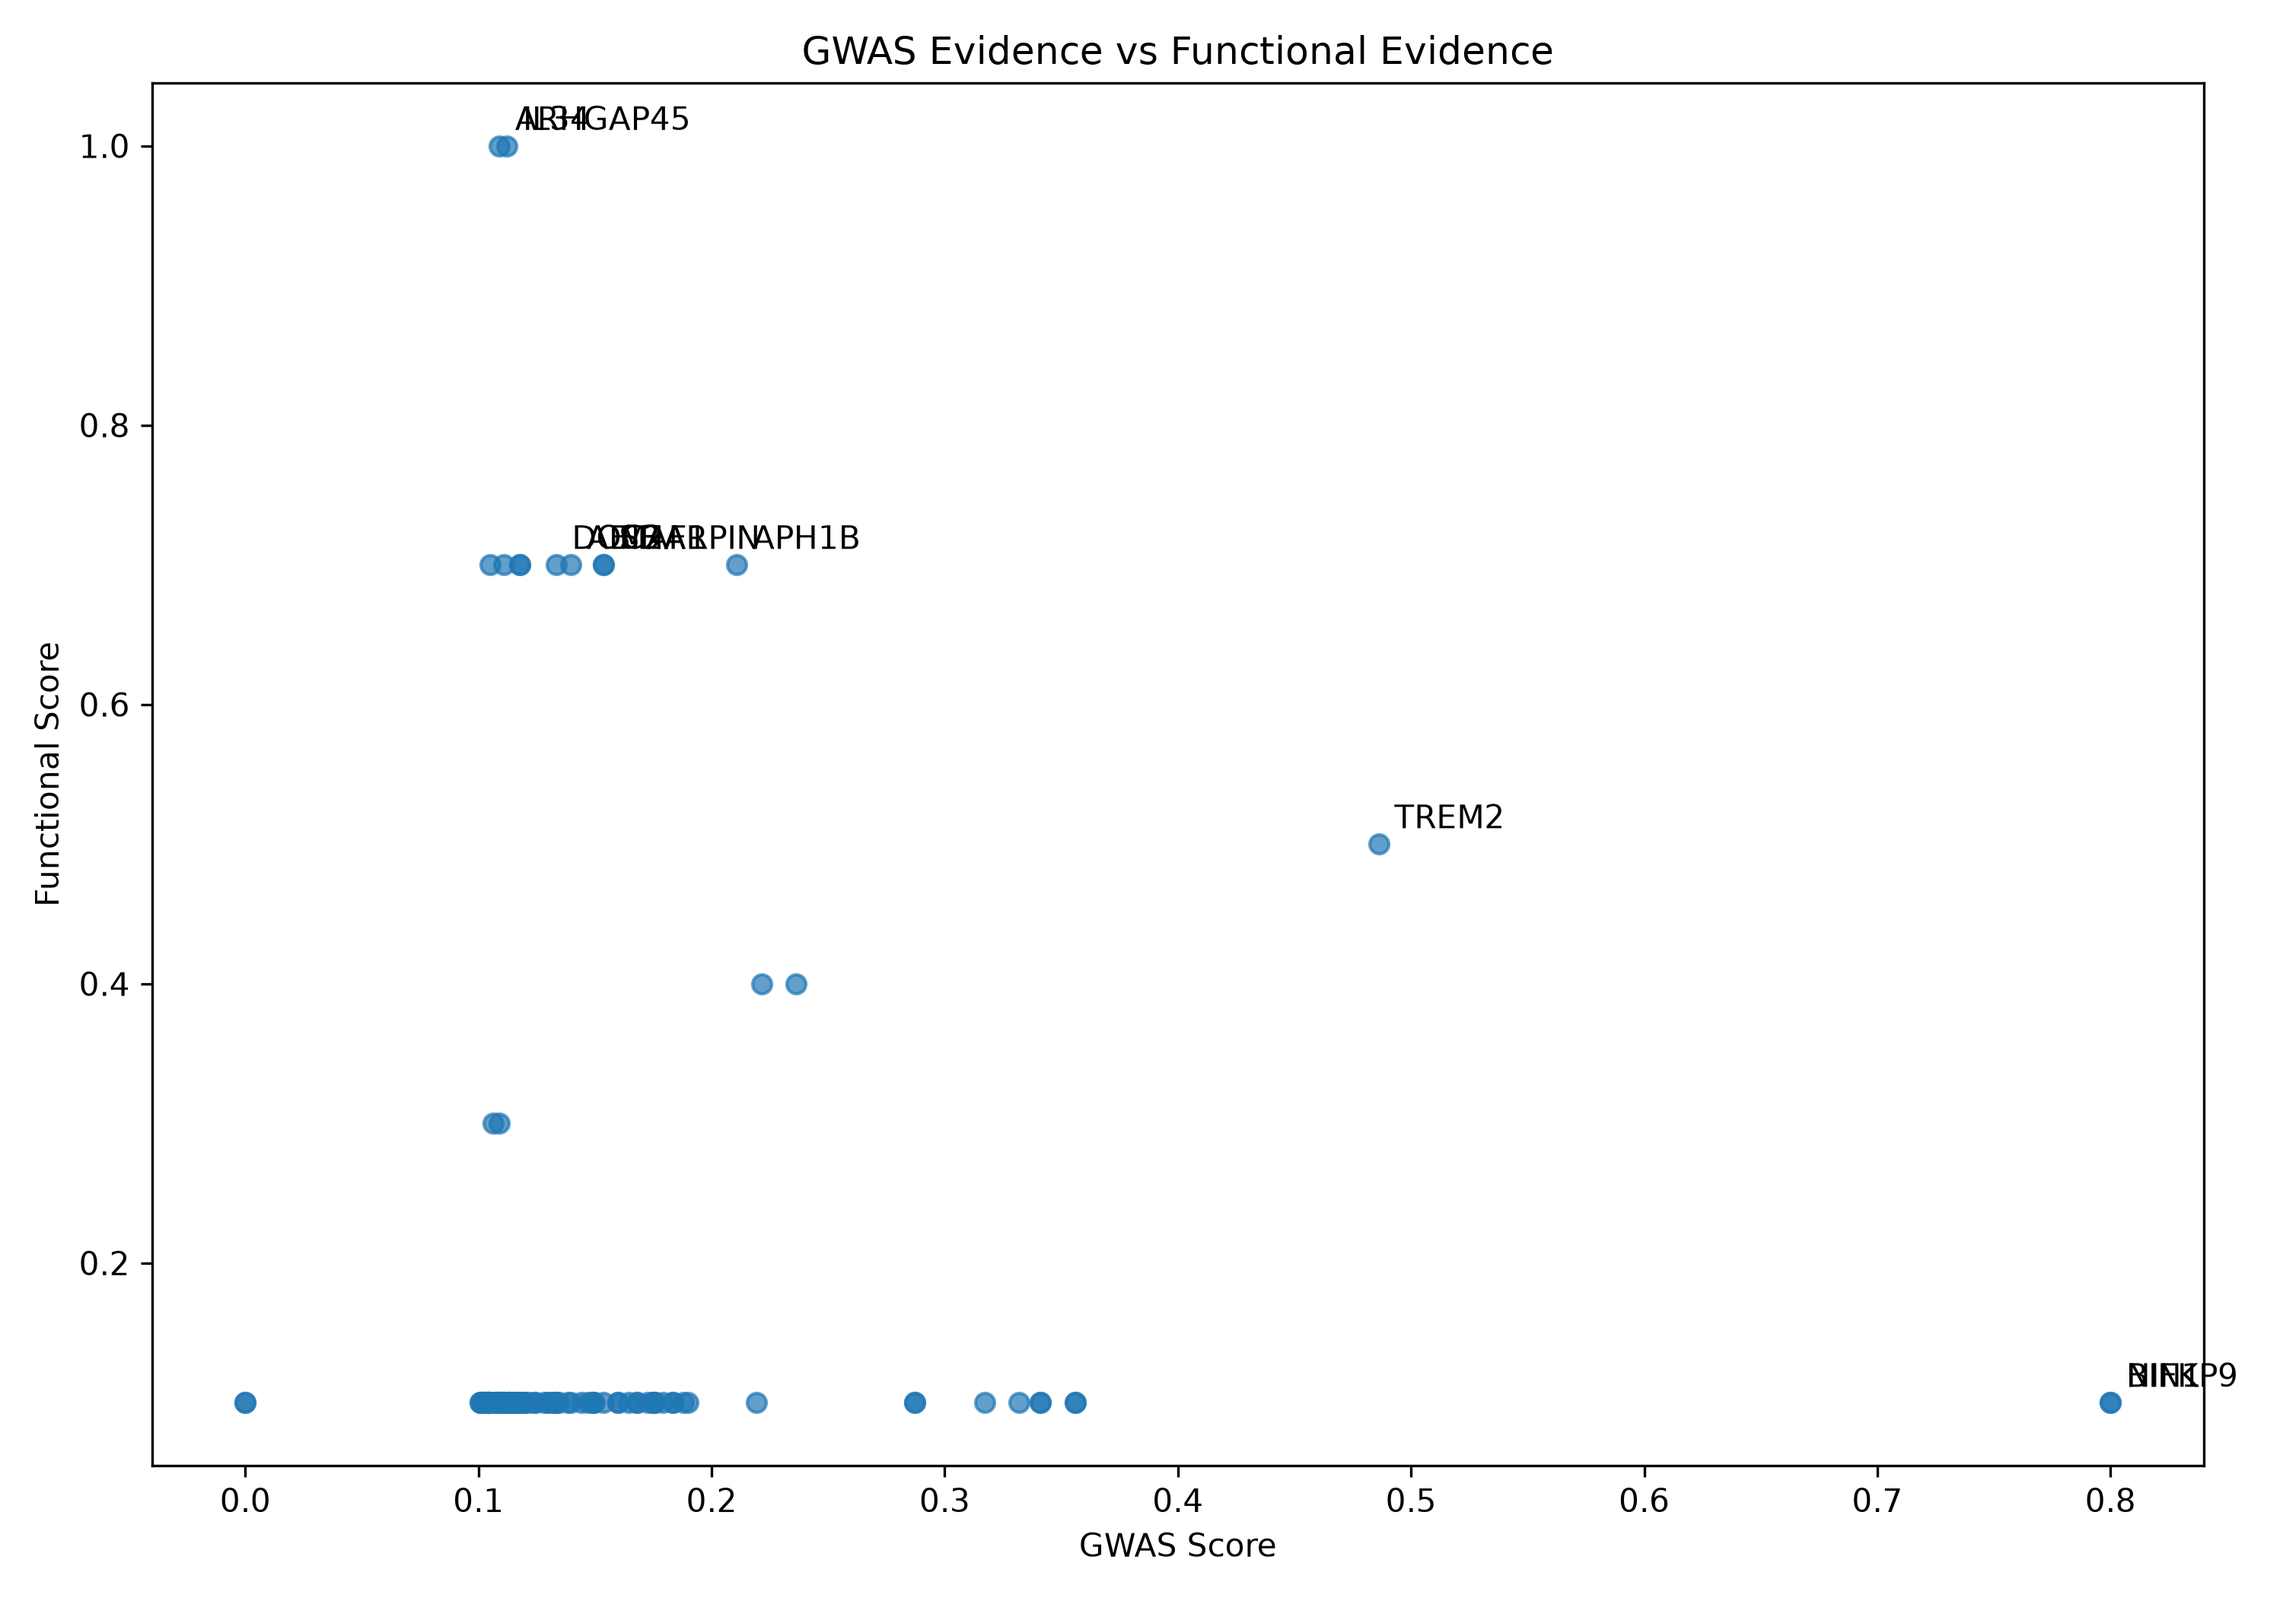
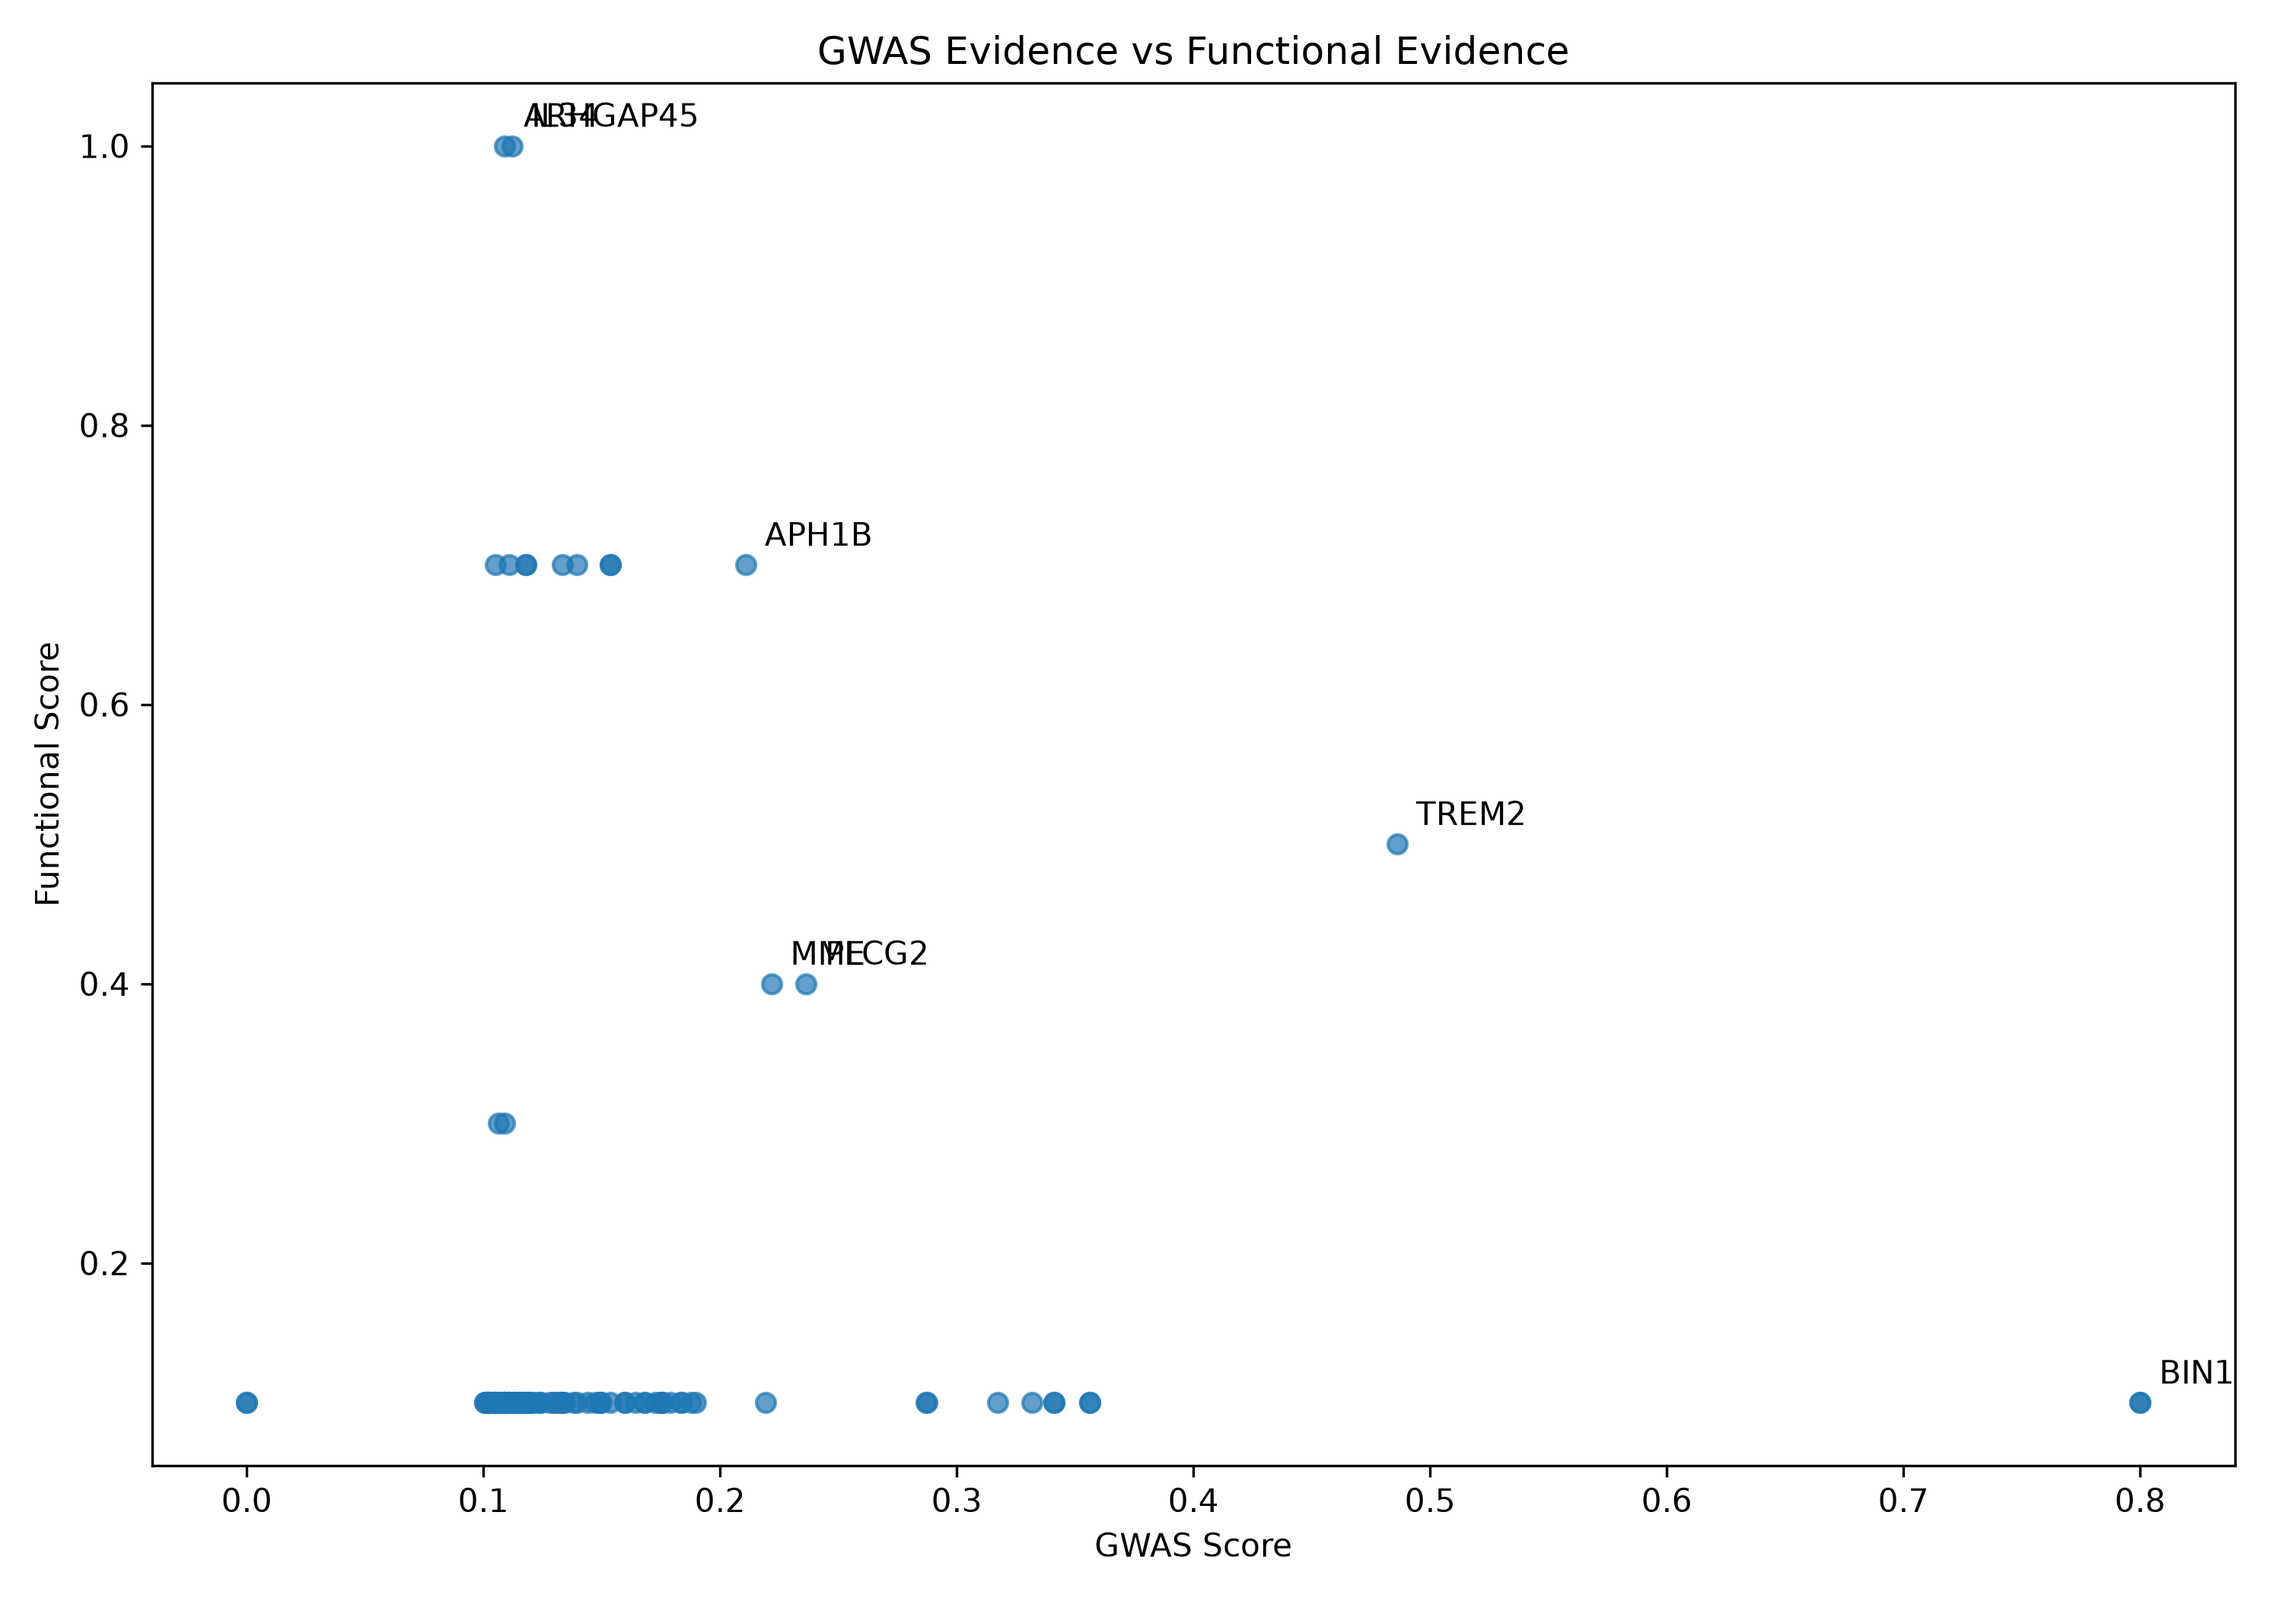
cleaner visualisation of gwas vs functional evidence scatter plot

diff --git a/src/geneprior_scoring.py b/src/geneprior_scoring.py
@@ -129,12 +129,28 @@ print("\nCalculating GenePrior v1 score...")
 GWAS_WEIGHT = 0.70
 FUNCTIONAL_WEIGHT = 0.30
 
-evidence["geneprior_score"] = (
+# --------------------------------------------------
+# Calculate evidence contributions
+# --------------------------------------------------
+
+evidence["gwas_contribution"] = (
     GWAS_WEIGHT * evidence["gwas_score"]
-    + FUNCTIONAL_WEIGHT * evidence["functional_score"]
 )
 
-# Convert score to 0–100 scale
+evidence["functional_contribution"] = (
+    FUNCTIONAL_WEIGHT * evidence["functional_score"]
+)
+
+
+# --------------------------------------------------
+# Calculate final GenePrior score
+# --------------------------------------------------
+
+evidence["geneprior_score"] = (
+    evidence["gwas_contribution"]
+    + evidence["functional_contribution"]
+)
+
 evidence["geneprior_score_100"] = (
     evidence["geneprior_score"] * 100
 )
@@ -165,18 +181,24 @@ column_order = [
     "geneprior_rank",
     "geneprior_score",
     "geneprior_score_100",
+
     "gwas_score",
+    "gwas_contribution",
+
     "functional_score",
+    "functional_contribution",
+
     "best_p_value",
     "variant_count",
     "significant_variant_count",
+
     "most_severe_functional_consequence",
+
     "HIGH",
     "MODERATE",
     "LOW",
     "MODIFIER"
 ]
-
 evidence = evidence[column_order]
 
 
